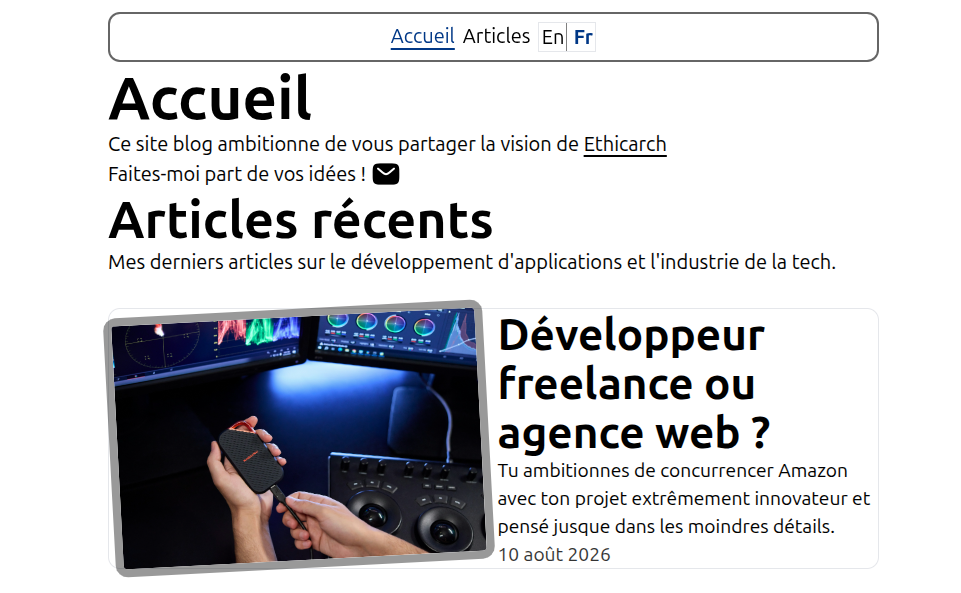
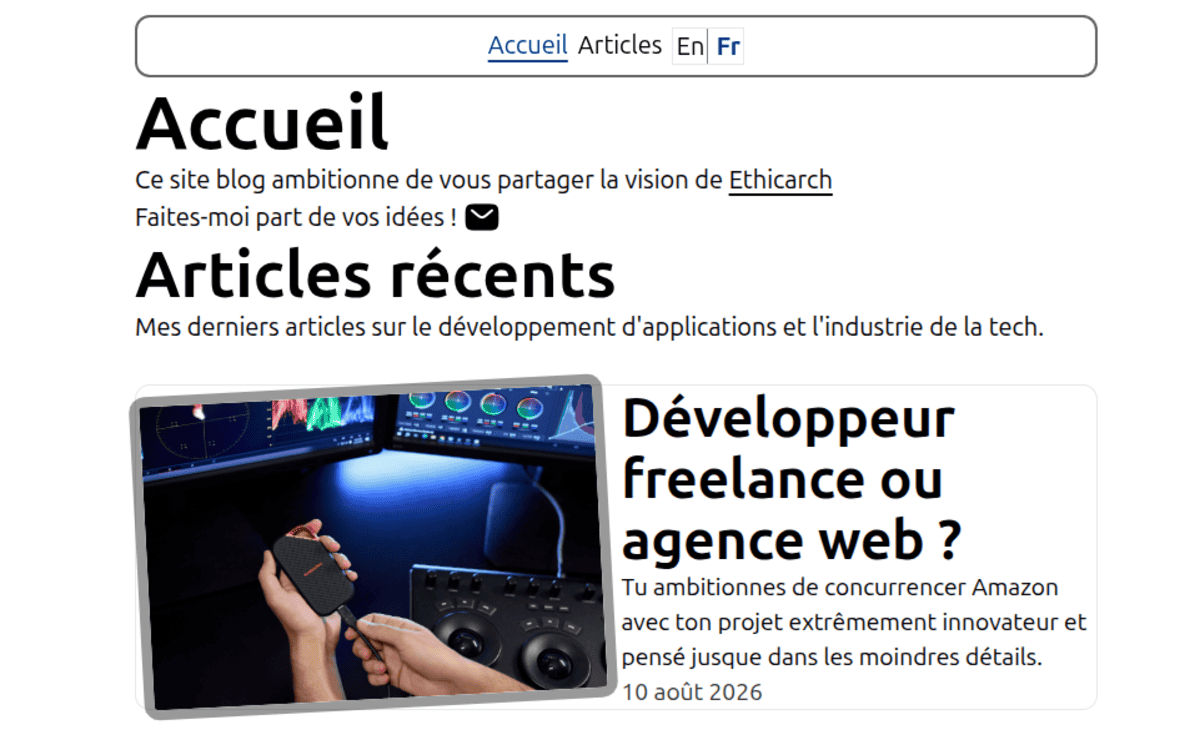
Compress imgs and conf googl console

diff --git a/nuxt.config.ts b/nuxt.config.ts
@@ -3,13 +3,19 @@ export default defineNuxtConfig({
     app: {
         baseURL: "/ethicarch-blog",
         head: {
-            meta: [{ name: "robots", content: "index, follow" }],
+            meta: [
+                { name: "robots", content: "index, follow" },
+                {
+                    name: "google-site-verification",
+                    content: "5hKM7mYyRjYLtipo8mCPd_1Y9ybCIBMir08xHnlD7QY",
+                },
+            ],
         },
     },
     compatibilityDate: "2026-08-08",
     ssr: true,
     nitro: {
-        preset: "github_pages"
+        preset: "github_pages",
     },
     modules: ["@nuxtjs/tailwindcss", "nuxt-i18n-micro"],
     i18n: {
